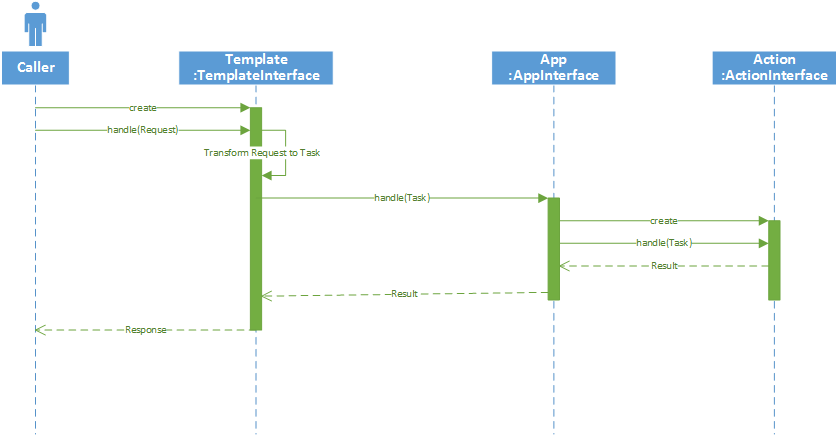
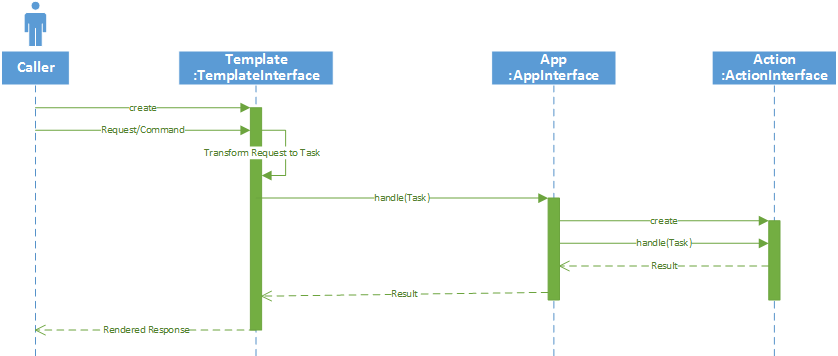
FIX docs

diff --git a/Docs/developer_docs/technical_architecture.md b/Docs/developer_docs/technical_architecture.md
@@ -1,3 +1,11 @@
 # Overview of the technical architecture
 
+In a nutshell the platform acts as command bus behind a changable facade:
+
 ![Processing a request](images/overview.png)
+
+Regardless of where it is called from (an HTTP endpoint, a console application or anything else), the caller talks to a template (= facade), which actually defines what sort of input it accepts and what the output will be. This input data can be anything, but in general, it must contain some kind of reference to the action that is to be performed. Once the caller passes some valid input data (e.g. an HTTP request or a CLI command), this data gets transformed by the template into an internal structure called "Task", which essentially is a data trasnfer object (DTO) similar to a classical command. The task contains all information neccessary for further processing. 
+
+The template now passes the task to an app to get it handled. The app is comparable to a command bus at this point: it uses it's internal logic to resolve a handler capable to actually perform the required action and return a result-object (another type of internal DTO). In most apps these handlers are action classes: each responsible for a single action [prototype](../understanding_the_metamodel/prototypes.md). The result object is returned back to the template. 
+
+Using the result type and contents, the template can now render a response that is understandable to caller (e.g. an HTTP response or CLI output) and finally return it to the caller.
